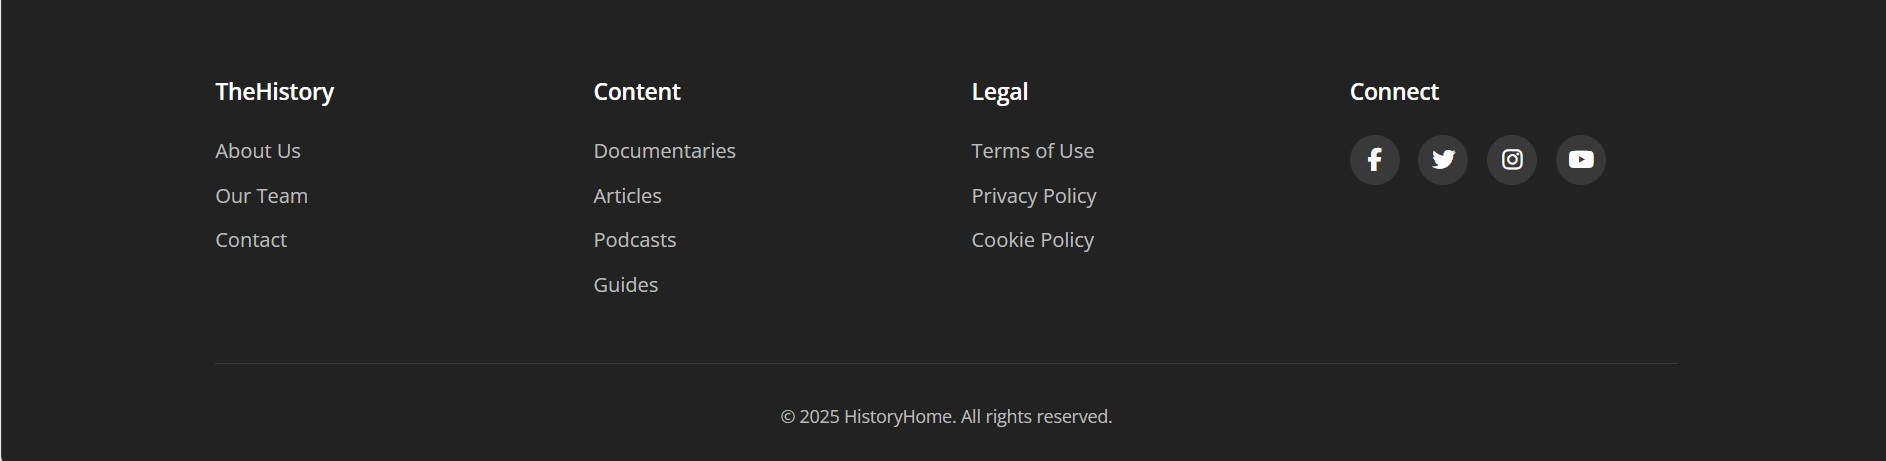
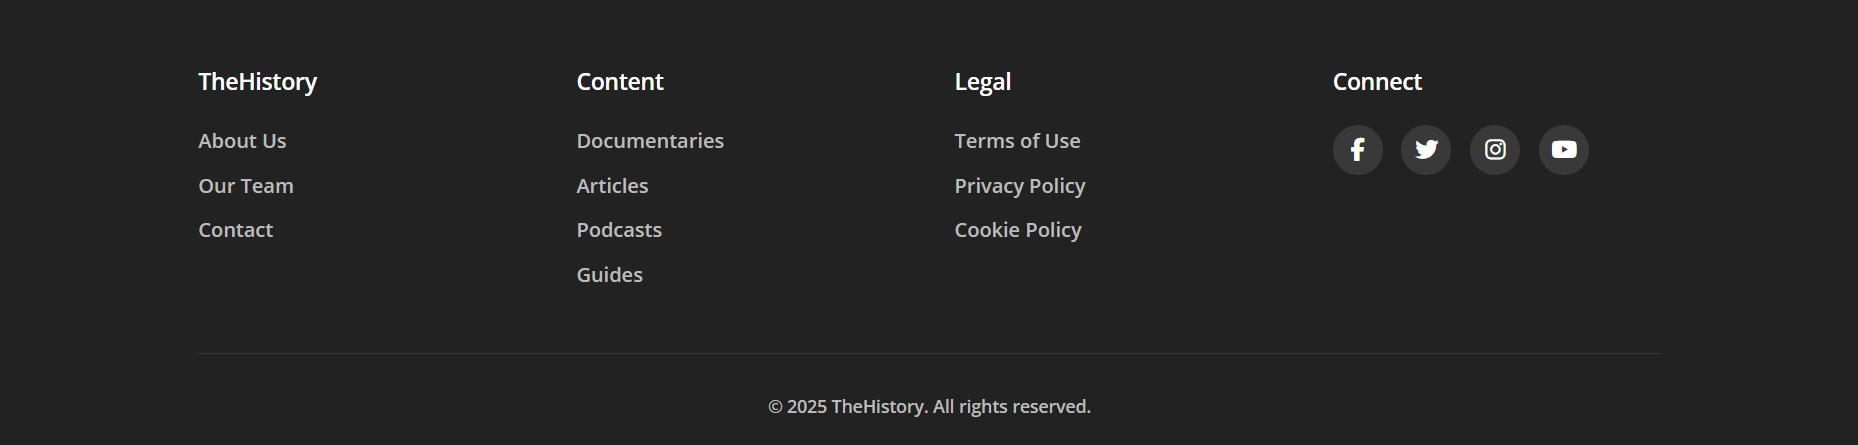
add all to commit

diff --git a/index.html b/index.html
@@ -291,7 +291,7 @@
                 </div>
             </div>
             <div class="index_footer-bottom">
-                <p>&copy; 2025 HistoryHome. All rights reserved.</p>
+                <p>&copy; 2025 TheHistory. All rights reserved.</p>
             </div>
         </div>
     </footer>

diff --git a/README_History.md b/README_History.md
@@ -711,68 +711,70 @@ The website was tested on the following browsers:
 <img src="./docs/user-story-testing/user-story-1-content-showcase-module.jpg">
 </details>
 
-2. As a first time user, I want to know the price range
+4. As a first-time user, I want to quickly identify and select my preferred content type to find relevant materials efficiently.
 
 | **Feature** | **Action** | **Expected Result** | **Actual Result** |
 |-------------|------------|---------------------|-------------------|
-| Footer | Scroll to the Footer section | See prices on menu page | Works as expected |
+| Feature Browse by Category | Scroll down every page of the website to the "Browse by Category" section  | See four clearly labeled content categories (Documentaries, Articles, Podcasts, Guides) that allow instant filtering of website content by format. | Works as expected |
+
 
 <details><summary>Screenshots</summary>
-<img src="docs/user-story-testing/user-story-2.jpg">
+<img src="./docs/user-story-testing/user-story-feature-browse-by-category.jpg">
 </details>
 
-3. As a first time user, I want to know more about the restaurant
+5. As a first-time user, I want to easily access key website sections and legal information from any page.
 
 | **Feature** | **Action** | **Expected Result** | **Actual Result** |
 |-------------|------------|---------------------|-------------------|
-| About Us | Navigate to the About page and locate the About Us section | Find description of the restaurant | Works as expected |
-| Customer reviews | Navigate to the About page, scroll down to What our guests say section | Read customer reviews | Works as expected | 
+| Feature Footer | Scroll to page bottom  | See organized footer with: (1) Branding (TheHistory), (2) Navigation links (About Us, Content, Legal), (3) Copyright notice, and (4) Social Media links - all consistently available across the site. | Works as expected |
+
 
 <details><summary>Screenshots</summary>
-<img src="docs/user-story-testing/user-story-3-14.jpg">
+<img src="./docs/user-story-testing/user-story-feature-footer.jpg">
 </details>
 
-4. As a first time user, I want to get a feel of what to expect at the restaurant
+6. As a first-time user, I want to quickly browse article previews to find interesting historical topics that match my available time and interests.
 
 | **Feature** | **Action** | **Expected Result** | **Actual Result** |
 |-------------|------------|---------------------|-------------------|
-| Gallery | Navigate to the Gallery page | Find pictures of the restaurant and food served there | Works as expected |
-| Promo video | Navigate to the GAlelry page and scroll to the promo video | Watch promo video | Works as expected |
+| Article Cards Feature | Click on the Articles Button on the Main Navigation Menu, Scroll down to View the Article Cards Feature section  | See visually distinct article cards with: (1) Clear titles, (2) Read time estimates (5-15 min), and (3) Engaging teaser text that helps the user select content efficiently.. | Works as expected |
+
 
 <details><summary>Screenshots</summary>
-<img src="docs/user-story-testing/user-story-4.jpg">
+<img src="./docs/user-story-testing/user-story-feature-article-cards .jpg">
 </details>
 
-5. As a returning user, I want to see the Sunday meal offer
+5. As a first-time or a returning user, I want to filter video content by geographic region to quickly find topics relevant to my interests.
 
 | **Feature** | **Action** | **Expected Result** | **Actual Result** |
 |-------------|------------|---------------------|-------------------|
-| Meal-deal | On home page scroll down to the Sunday meal deal section | Find the meal-deal for the upcomming Sunday | Works as expected |
+| Video Section Navigation Bar Feature | Click on the Videos Button on the Main Navigation Menu, View the video section header  | See three clear regional filters (EGYPT, EUROPE, WORLD) that allow instant sorting of video content by geographic focus. Click on the button of the Video Section Navigation Bar to go to the video section of interest | Works as expected |
+
 
 <details><summary>Screenshots</summary>
-<img src="docs/user-story-testing/user-story-5.jpg">
+<img src="./docs/user-story-testing/user-story-feature-video-section-navigation-bar.jpg">
 </details>
 
-6. As a returnign user, I want to know the opening times
+6.  As a first-time or a returning user, I want to preview and select themed videos by seeing their titles, sources, and durations before watching.
 
 | **Feature** | **Action** | **Expected Result** | **Actual Result** |
 |-------------|------------|---------------------|-------------------|
-| Footer - opening times section | On any page scroll to the footer | See opening times | Works as expected |
+| Video Cards Carousel Feature | Click on the Videos Button on the Main Navigation Menu, View the video section header, see Video Section Navigation Bar,click on the button of the Video Section Navigation Bar to go to the video section of interest, View the video carousel section, click on the left- or right-go arrows to view the videos available and click on the video of interest to watch  | See scrollable video cards displaying: (1) Descriptive titles, (2) Reputable source (NATIONAL GEOGRAPHIC), and (3) Duration (2:48/7:49) to help me choose content efficiently. Click on left- and right-go arrows lets user navigate left or right accordingly to view the videos available. A click on the video of choice starts the video playing | Works as expected |
+
 
 <details><summary>Screenshots</summary>
-<img src="docs/user-story-testing/user-story-6.jpg">
+<img src="./docs/user-story-testing/user-story-feature-video-cards-carousel_egypt_1.jpg">
 </details>
 
-7. As a returning user, I want to find a phone number to call for reservation
+7.  As a first-time or a returning user, I want to understand podcast episode details including duration, release year, and historical topic before listening.
 
 | **Feature** | **Action** | **Expected Result** | **Actual Result** |
 |-------------|------------|---------------------|-------------------|
-| Footer - contact information section | On any page scroll to the footer | See phone number | Works as expected |
-| Info Box | Navigate to Contact Us page and locate the How to find us section | See phone number | Works as expected |
+| Podcasts Feature | Click on the Podcasts Button on the Main Navigation Menu, View the "Time Travel Through Sound" section | See clearly organized podcasts information: (1) Inspirational quote, (2) Episode title/number, (3) Duration (39 minutes) and year, (4) Expandable details toggle. A click on the play button of a chosen podcast's player starts the audio playing, click again on the pause button pauses the audio, click on the volume icon mutes  the audio, click again unmutes it, dragging the volume control slider lets user adjust the volume level, Clicking the playback speed icon allows user to adjust the playback speed | Works as expected |
+
 
 <details><summary>Screenshots</summary>
-<img src="docs/user-story-testing/user-story-7v1-15.jpg">
-<img src="docs/user-story-testing/user-story-7v2-15.jpg">
+<img src="./docs/user-story-testing/user-story-feature-podcast_1.jpg">
 </details>
 
 8. As a returning user, I want to see the menu
